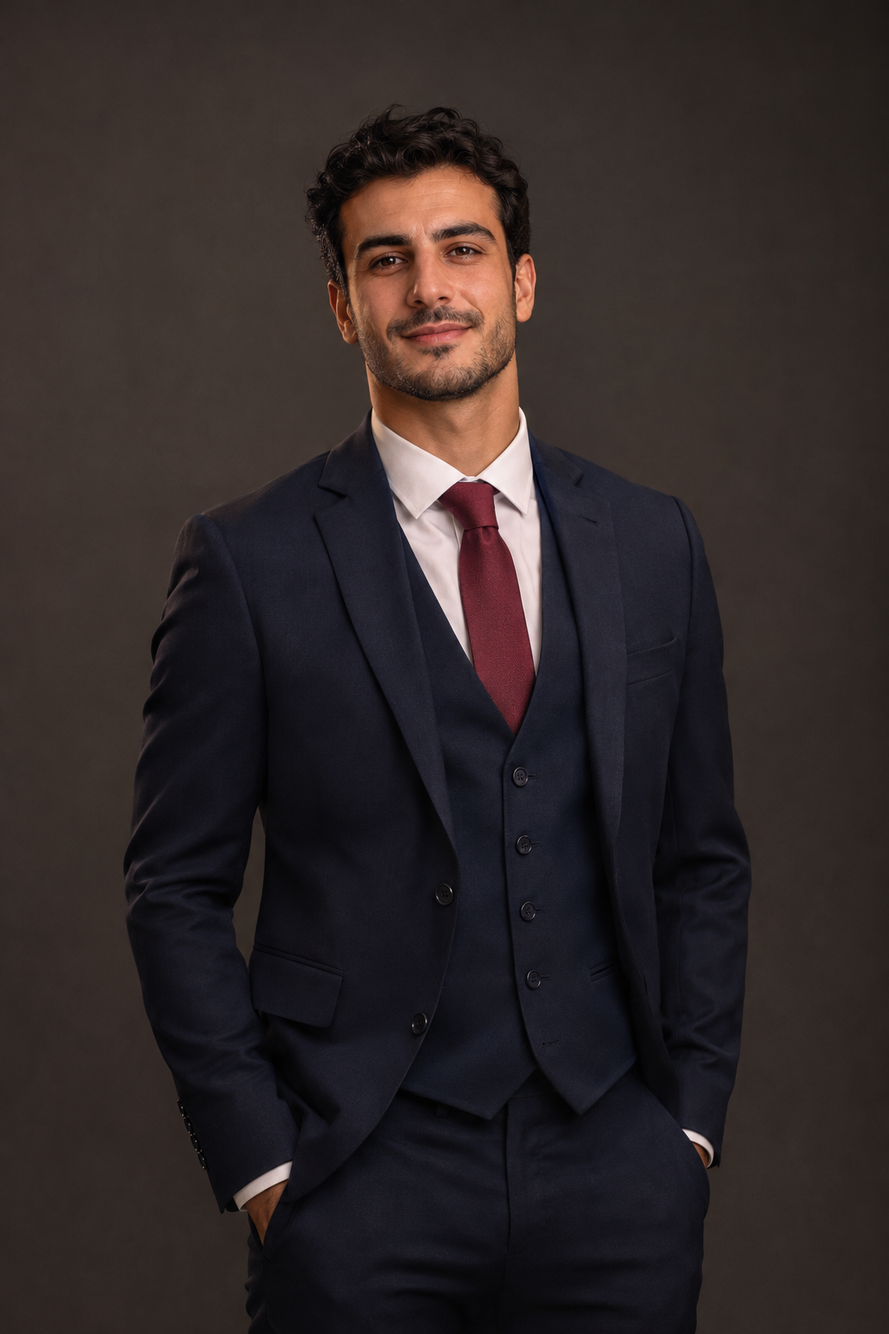
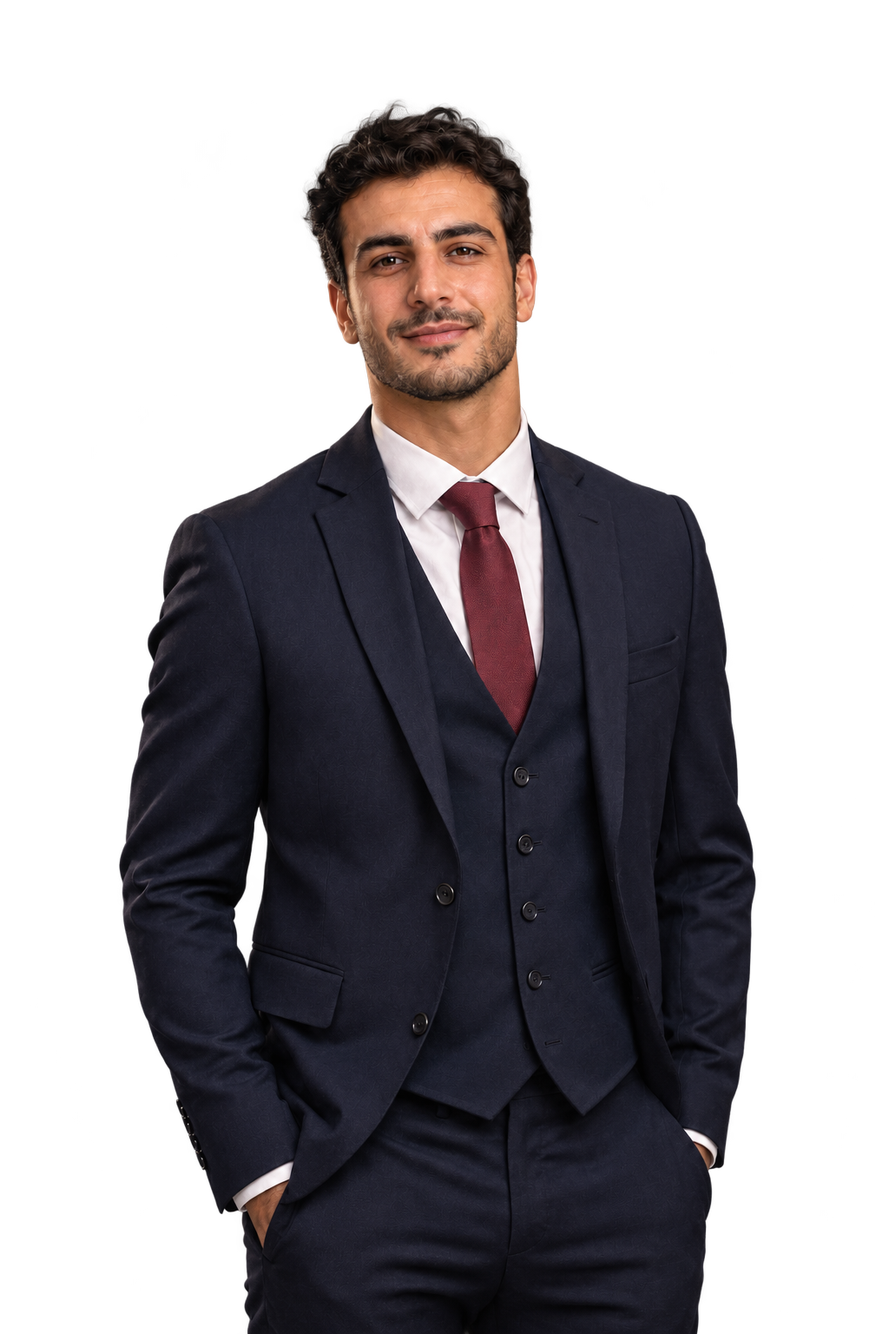
Use transparent persona and suit cutouts and center suit in circle

diff --git a/index.html b/index.html
@@ -1,7 +1,7 @@
 <!DOCTYPE html><html lang="fr"><head><meta charset="utf-8"><meta name="viewport" content="width=device-width, initial-scale=1"><link rel="icon" href="assets/logo-exist-original.png"><meta name="theme-color" content="#0d0d10"><title>EXIST — Plan marketing digital | Soutenance</title><meta name="description" content="Soutenance académique du plan marketing digital EXIST Costume 3 pièces Slim-Fit : Attirer, Convertir, Fidéliser."><style>
 :root{--red:#d61030;--redBright:#f52b46;--black:#0d0d10;--ivory:#f3f0eb;--line:#ffffff26;--white:#fff;--muted:#b9b7bc;font-family:'Avenir Next','Segoe UI',Inter,Arial,sans-serif;color:#f7f6f5;font-synthesis:none}
 *{box-sizing:border-box}html,body{margin:0;height:100%;background:#050508}button,a{font:inherit}button{cursor:pointer}a{color:inherit}button:focus-visible,a:focus-visible{outline:3px solid #ff526a;outline-offset:3px}.screen{position:fixed;inset:0;display:grid;place-items:center;background:radial-gradient(circle at 50% 45%,#222229,#040405 75%);overflow:hidden}.deck{width:min(100vw,177.77778vh);height:min(100vh,56.25vw);aspect-ratio:16/9;position:relative;overflow:hidden;background:#101013;box-shadow:0 18px 90px #0009;container-type:inline-size;isolation:isolate}
-.slide{position:absolute;inset:0;z-index:1;opacity:0;visibility:hidden;pointer-events:none;transform:translate3d(8%,0,-100px) rotateY(4deg) scale(.985);transition:opacity .45s ease, transform .65s cubic-bezier(.16,1,.3,1), visibility 0s linear .65s;will-change:opacity,transform;perspective:1400px}.slide.active{z-index:3;opacity:1;visibility:visible;pointer-events:auto;transform:none;transition:opacity .4s ease,transform .6s cubic-bezier(.16,1,.3,1),visibility 0s}.slide.prev{transform:translate3d(-6%,0,-100px) rotateY(-3deg) scale(.96)}.slide-content{height:100%;padding:8.6% 5.25% 8%;position:relative;overflow:hidden}.slide::before{content:"";position:absolute;right:-15%;top:-55%;width:50%;height:190%;border:1px solid #ffffff0d;transform:rotate(-24deg);pointer-events:none}.slide::after{content:"";position:absolute;inset:0;background:radial-gradient(circle at 80% 24%,#d6103012,transparent 31%);pointer-events:none}.s-light{background:var(--ivory);color:#17171a}.s-dark{background:radial-gradient(ellipse at 80% 25%,#28252b,transparent 49%),linear-gradient(120deg,#09090b,#1c1b20);color:var(--white)}.s-goal{background:radial-gradient(circle at 80% 0%,#5a14222b,transparent 40%),#111114}.s-journey{background:linear-gradient(135deg,#151317,#0b0b0d)}.s-assets{background:#111114}.s-kpi{background:linear-gradient(115deg,#141419,#08080a)}.s-product-demo{background:radial-gradient(ellipse at 80% 50%,#2e1c22,#0c0c0f)}.s-cover,.s-final{background:#0a0a0d}.section-glint{position:absolute;left:5.3%;top:8.3%;width:clamp(4px,.28cqw,6px);height:2.9cqw;background:var(--red);z-index:1;opacity:.9}.s-cover .section-glint{display:none}.eyebrow{display:flex;align-items:center;gap:1.1cqw;font-size:1.05cqw;letter-spacing:.15em;font-weight:700;color:#e8e5e6;text-transform:uppercase;margin-bottom:2.0cqw}.eyebrow>span{height:.15cqw;width:2.8cqw;background:var(--red)}.s-light .eyebrow{color:#3a3739}.big{font-family:'Baskerville','Iowan Old Style','Times New Roman',Georgia,serif;font-weight:500;font-size:6.15cqw;letter-spacing:-.055em;line-height:.98;margin:0 0 1.75cqw;max-width:92%;text-wrap:balance}.big em{font-style:italic;color:#e4ddd4}.s-light .big em{color:#ae1730}.small-big{font-size:5.0cqw;max-width:100%}.lead{font-size:1.61cqw;line-height:1.52;font-weight:400;max-width:39cqw;color:#d7d3d7;margin:0 0 2cqw}.dark-text{color:#151517!important}.lead.dark-text{color:#363138!important}.split{display:grid;grid-template-columns:1fr 1fr;gap:3.9cqw;align-items:center;height:100%}.two-unequal{grid-template-columns:1.15fr .85fr}.source-line{font-size:.85cqw;color:#b7aeb2;margin-top:1.3cqw;line-height:1.45}.s-light .source-line{color:#655a61}.source-line code{font-size:.88cqw}.pill{font-size:.98cqw;border:1px solid #ffffff42;padding:.65cqw 1.15cqw;border-radius:99px;letter-spacing:.1em;font-weight:650;background:#18181c6b}.tags{display:flex;gap:.8cqw;align-items:center;flex-wrap:wrap}.tags .pill:first-child{border-color:#ed2743;color:#f7d8dc}.s-cover .slide-content{padding:0}.cover-photo{position:absolute;inset:0;background-position:center;background-size:cover;transform:scale(1.045);animation:slowZoom 20s ease-in-out infinite alternate}.cover-ribbon{position:absolute;width:44%;right:-12%;top:18%;mix-blend-mode:screen;opacity:.65;filter:drop-shadow(0 30px 50px #000);transform:rotate(-8deg)}.cover-copy{position:absolute;top:20%;left:7%;width:58%}.display-label{font-family:'Baskerville',Georgia,serif;font-size:7.5cqw;line-height:.93;letter-spacing:-.075em;text-shadow:0 9px 40px #0009}.display-label em{font-style:italic;color:#fff5f3}.cover-summary{font-size:1.6cqw;max-width:43cqw;line-height:1.5;color:#eee;margin:2cqw 0 2.4cqw}.cover-foot{position:absolute;bottom:8.5%;left:7%;right:7%;display:flex;justify-content:space-between;font-size:1.1cqw;letter-spacing:.03em;color:#ded2d3}.cover-foot span:last-child{font-size:.93cqw;letter-spacing:.18em}.photo-frame{height:37cqw;border:1px solid #ffffff2a;position:relative;transform:rotateY(-4deg) rotateX(1deg);border-radius:1.2cqw;overflow:hidden;background:#1c1820;box-shadow:16px 25px 50px #0008}.photo-frame img{width:100%;height:100%;object-fit:cover;object-position:60% center}.photo-caption{position:absolute;bottom:0;left:0;right:0;background:linear-gradient(transparent,#060606dd);padding:3.5cqw 2cqw 1.2cqw;font-size:2.2cqw;font-weight:900;letter-spacing:.08em}.photo-caption span{font-size:.75cqw;letter-spacing:.25em}.stat-strip{display:flex;gap:1.7cqw;padding-top:1.4cqw;border-top:1px solid #ffffff38;max-width:42cqw}.stat-strip>div{display:flex;flex-direction:column;gap:.55cqw;min-width:0}.stat-strip b{font-size:2.05cqw;color:#ff4358}.stat-strip span{font-size:1.05cqw;line-height:1.25;color:#dad5d8}.product-stage{height:38cqw;position:relative;display:grid;place-items:center;perspective:1300px}.product-halo{width:32cqw;height:32cqw;border-radius:50%;position:absolute;background:radial-gradient(circle,#c9c2bd,#eae6e2 63%,transparent 68%);box-shadow:0 25px 55px #3e2b2820}.suit-cutout{height:37cqw;width:26cqw;object-fit:cover;object-position:center;background:#eeebea;mix-blend-mode:multiply;filter:drop-shadow(15px 20px 12px #29171933);clip-path:polygon(15% 0,85% 0,85% 100%,12% 100%);transform:rotateY(-5deg)}.float-label{position:absolute;font-size:.84cqw;font-weight:800;letter-spacing:.17em;color:#b3132b;background:#f3f0ebe8;padding:.5cqw .8cqw;border:1px solid #b3132b54}.float-label.top{top:6%;right:13%}.float-label.left{top:52%;left:2%}.float-label.bottom{bottom:9%;right:4%}.feature-rows{margin-top:2.3cqw}.feature-rows>div{display:flex;align-items:center;border-top:1px solid #1c1a1a40;padding:1.1cqw 0;gap:1.5cqw}.feature-rows b{color:#c20b2a;font-size:1.27cqw}.feature-rows span{font-size:1.3cqw}.caution{font-size:.9cqw;line-height:1.5;color:#80757a;margin-top:1.6cqw}.persona-chips{display:flex;flex-wrap:wrap;gap:.7cqw;max-width:42cqw;margin:2cqw 0}.persona-chips span{border:1px solid #ffffff36;padding:.65cqw .9cqw;border-radius:10px;font-size:1.2cqw;background:#26252b}blockquote{font-family:Georgia,serif;font-size:1.75cqw;line-height:1.43;font-style:italic;border-left:.28cqw solid var(--red);padding-left:1.6cqw;margin:2.0cqw 0 0;max-width:40cqw;color:#e8e2e3}.poster-tilt{height:37cqw;position:relative;display:grid;place-items:center;transform:rotateY(-4deg)}.poster-tilt img{height:100%;max-width:100%;object-fit:contain;box-shadow:20px 25px 50px #0008;border:1px solid #ffffff24;border-radius:.4cqw}.poster-stamp{position:absolute;bottom:1%;right:0;font-size:.75cqw;letter-spacing:.18em;background:#c10b2b;padding:.6cqw .9cqw}.empathy-layout{display:grid;grid-template-columns:1.7fr 1fr;gap:2cqw;align-items:center;height:73%}.empathy-image{border:1px solid #d4c9c9;position:relative;padding:.6cqw;background:white;transform:rotateY(2deg);box-shadow:10px 18px 40px #a59c9a66}.empathy-image img{display:block;width:100%;max-height:34cqw;object-fit:contain;cursor:zoom-in}.empathy-image>span{position:absolute;right:1cqw;bottom:.7cqw;background:#222;color:white;padding:.4cqw .7cqw;font-size:.75cqw}.insights{display:grid;grid-template-columns:1fr 1fr;gap:1.2cqw}.insights>div{border-top:.23cqw solid #c81d38;padding-top:1cqw;min-height:9.5cqw}.insights b{font-size:.9cqw;letter-spacing:.15em;color:#aa172c}.insights p{font-size:1.3cqw;line-height:1.38;margin:.7cqw 0}.s-journey .big{font-size:5.7cqw}.s-journey .journey-grid{margin-top:1.1cqw}.journey-grid{display:grid;grid-template-columns:1fr .17fr 1fr .17fr 1fr;gap:.3cqw;align-items:center;margin-top:4cqw;perspective:1200px}.journey-card{min-height:20.5cqw;padding:1.65cqw;background:linear-gradient(130deg,#26252b,#121215);border:1px solid #ffffff28;border-radius:1cqw;box-shadow:0 28px 60px #0007;transform:rotateY(-4deg)}.journey-card:nth-of-type(3){transform:translateY(-.75cqw)}.journey-step{font-size:1.1cqw;color:#f84156;font-weight:700;letter-spacing:.15em}.journey-icon{font-size:5cqw;display:block;color:#f3e3e4;margin:1cqw 0 .7cqw}.journey-card h2{font-size:2cqw;letter-spacing:.02em;margin:0 0 .9cqw}.journey-card p{color:#d2cdd0;font-size:1.35cqw;line-height:1.35;margin:0 0 1.3cqw}.journey-card small{color:#fa7d8f;font-size:1cqw}.journey-arrow{text-align:center;font-size:3.6cqw;color:#e42d44}.s-goal .big{font-size:5.4cqw}.s-goal .goal-layout{margin-top:1.1cqw}.goal-layout{display:grid;grid-template-columns:.78fr 1.22fr;gap:3cqw;margin-top:2.6cqw;align-items:start}.goal-numbers{display:grid;gap:1.25cqw}.metric{border:1px solid #ffffff30;border-left:.38cqw solid #d31a35;padding:1.5cqw 2cqw;background:linear-gradient(100deg,#ffffff0c,transparent);border-radius:.45cqw}.metric-value{font-size:5cqw;line-height:1;font-weight:750;letter-spacing:-.065em;font-variant-numeric:tabular-nums}.metric-label{font-size:1.4cqw;font-weight:800;text-transform:uppercase;margin-top:.55cqw}.metric p{font-size:1cqw;color:#c7bec2;margin:.4cqw 0 0}.goal-summary{padding:0 1cqw}.goal-period{font-size:.98cqw;color:#ff657b;letter-spacing:.18em;font-weight:700;border-bottom:1px solid #ffffff36;padding-bottom:.9cqw}.goal-summary>p{font-size:1.48cqw;line-height:1.43;color:#f7f4f5;margin:1.2cqw 0}.smart-stack{display:grid;grid-template-columns:1fr 1fr;gap:.66cqw}.smart-line{display:flex;gap:.8cqw;align-items:center;background:#ffffff0d;padding:.65cqw .8cqw;border-radius:.3cqw;font-size:1cqw;line-height:1.24;color:#dfd9dc}.smart-line b{display:grid;place-items:center;width:2.1cqw;min-width:2.1cqw;height:2.1cqw;background:#b10a25;color:white;border-radius:.26cqw;font-size:1.1cqw}.goal-layout+.caveat{font-size:.93cqw;color:#e5c6cd;margin-top:1.3cqw}.truth-box{border-left:.3cqw solid #e12442;background:#ffffff13;padding:1.2cqw 1.7cqw;max-width:40cqw;font-size:1.2cqw;line-height:1.4}.empathy-cards{display:grid;grid-template-columns:1fr 1fr;gap:1cqw;transform:rotateY(-2deg)}.empathy-cards>div{background:#ffffff10;border:1px solid #ffffff24;border-radius:.7cqw;min-height:12cqw;padding:1.5cqw}.empathy-cards small{display:block;color:#fb6277;letter-spacing:.13em;font-size:.86cqw;margin-bottom:1.2cqw}.empathy-cards strong{font-size:1.35cqw;font-weight:600;line-height:1.45}.lever-grid{display:grid;grid-template-columns:repeat(4,1fr);gap:1.2cqw;margin-top:3cqw}.lever-card{padding:1.65cqw;border:1px solid #ffffff32;background:linear-gradient(140deg,#ffffff12,#ffffff04);border-radius:.8cqw;min-height:25cqw;transform:rotateY(-3deg);box-shadow:0 16px 32px #0005}.lever-icon{display:grid;place-items:center;width:4cqw;height:4cqw;border:1px solid #f04a62;background:#2b1018;border-radius:1cqw;font-size:2.25cqw;color:#fff;margin-bottom:1.8cqw}.lever-card h3{font-size:1.65cqw;line-height:1.2;margin:0 0 .75cqw}.lever-card p{font-size:1.12cqw;line-height:1.38;color:#f0e9eb;margin:0 0 1.35cqw}.lever-card small{font-size:1.04cqw;line-height:1.4;color:#beb3ba;display:block;border-top:1px solid #ffffff25;padding-top:1.15cqw}.lever-card small b{color:#f2a8b5}.s-assets .big{font-size:4.4cqw;margin-bottom:.7cqw;white-space:nowrap}.s-assets .assets-attract,.s-assets .assets-retain{margin-top:.6cqw}.assets-attract{display:grid;grid-template-columns:1fr 1fr 1.05fr;gap:2cqw;max-height:28cqw;margin-top:.6cqw}.social-phone{height:27cqw;position:relative;display:grid;place-items:center}.social-phone img{height:25cqw;max-width:100%;object-fit:contain;border-radius:.6cqw;box-shadow:0 14px 22px #0009;cursor:zoom-in}.social-phone span{position:absolute;bottom:-1cqw;left:50%;transform:translateX(-50%);white-space:nowrap;font-size:.85cqw;letter-spacing:.15em;color:#ffc3cd}.reel-concept{background:linear-gradient(145deg,#33252b,#0c0d12);padding:2cqw;border:1px solid #ffffff33;border-radius:1cqw;position:relative}.reel-clap{font-size:4cqw;color:#f23a55}.reel-concept small{display:block;color:#f37b8c;font-size:.9cqw;letter-spacing:.13em}.reel-concept h2{font-family:Georgia,serif;font-size:2.8cqw;line-height:1.1}.reel-concept h2 em{color:#f8b2bc}.reel-concept p{font-size:1.2cqw;color:#e2d6db;line-height:1.4}.micro-roadmap{padding-top:1.1cqw;border-top:1px solid #ffffff30;font-size:1.1cqw;line-height:1.8}.reel-concept .caveat{color:#fdbdc7;font-size:.93cqw;line-height:1.4;margin-top:1cqw}.fears{display:grid;gap:1cqw}.fears>div:not(.fears-answer){border-bottom:1px solid #ffffff38;padding:1.3cqw 0;display:flex;gap:1.4cqw;align-items:center;font-size:1.48cqw}.fears b{color:#ed3854;font-size:2cqw}.fears-answer{padding:1.5cqw;background:#cc153020;border:1px solid #dc32504b;border-radius:1cqw;margin-top:1.3cqw}.fears-answer strong{font-size:1.2cqw;color:#f56278}.fears-answer p{font-size:1.4cqw;line-height:1.4}.demo-steps{margin:2cqw 0}.demo-steps>div{display:flex;align-items:center;gap:1.4cqw;border-bottom:1px solid #ffffff35;padding:.95cqw 0;font-size:1.22cqw}.demo-steps b{color:#f04059}.cta{display:inline-flex;align-items:center;justify-content:center;background:#c90b2a;color:#fff;text-decoration:none;font-size:1.04cqw;letter-spacing:.08em;font-weight:800;padding:1.1cqw 1.4cqw;border-radius:.4cqw;transition:background .2s,transform .2s}.cta:hover{background:#ef1236;transform:translateY(-.25cqw)}.landing-preview{height:35cqw;display:grid;place-items:start center;position:relative;overflow:hidden;border-radius:1cqw;border:1px solid #ffffff45;box-shadow:0 22px 40px #000b;transform:rotateY(-4deg)}.landing-preview img{width:100%;height:100%;object-fit:cover;object-position:center top;cursor:zoom-in}.preview-tag{position:absolute;bottom:0;left:0;right:0;background:linear-gradient(transparent,#000f);padding:3cqw 1.4cqw 1cqw;font-size:.85cqw;letter-spacing:.12em}.care-preview{height:36cqw;display:grid;place-items:center}.care-preview img{height:100%;object-fit:contain;border-radius:.8cqw;box-shadow:12px 20px 40px #0007}.assets-retain{display:grid;grid-template-columns:1.12fr 1fr 1fr 1fr;gap:1.4cqw;margin-top:1.2cqw;max-height:27cqw}.email-visual,.retain-visual{height:27cqw;border:1px solid #ffffff27;border-radius:.6cqw;overflow:hidden;position:relative;background:#18181c}.email-visual img,.retain-visual img{width:100%;height:100%;object-fit:cover;object-position:top;cursor:zoom-in}.email-visual img{object-position:top}.assets-retain span{position:absolute;bottom:0;left:0;right:0;padding:2.4cqw 1cqw .75cqw;background:linear-gradient(transparent,#000);font-size:.85cqw;font-weight:800;letter-spacing:.12em}.kpi-layout{display:grid;grid-template-columns:1.1fr .9fr;gap:2.6cqw;margin-top:3cqw}.kpi-table{border:1px solid #ffffff30;border-radius:.7cqw;overflow:hidden}.kpi-row{display:grid;grid-template-columns:1fr 1.65fr 1.15fr;gap:1cqw;padding:1.45cqw 1.2cqw;border-bottom:1px solid #ffffff20;align-items:center;font-size:1.1cqw}.kpi-row.title{font-size:.9cqw;color:#f7657a;letter-spacing:.15em;background:#ffffff0a}.kpi-row b{color:#f6b3bd}.kpi-row strong{font-size:1.55cqw;letter-spacing:-.02em}.measurement{padding:1.6cqw;font-size:1cqw;color:#b8afb3}.timeline{background:#ffffff08;padding:2cqw;border:1px solid #ffffff22;border-radius:.7cqw}.time-head{display:flex;justify-content:space-between;font-size:.86cqw;letter-spacing:.12em;color:#d6babe;margin-left:7cqw}.time-row{display:grid;grid-template-columns:7cqw 1fr;align-items:center;font-size:1.1cqw;margin-top:2cqw}.time-row b{font-weight:700}.time-row div{height:1.2cqw;background:#ffffff18;position:relative;border-radius:2cqw;overflow:hidden}.time-row i{position:absolute;left:0;top:0;height:100%;background:linear-gradient(90deg,#a80e28,#f73957);border-radius:2cqw}.timeline p{font-size:1.05cqw;color:#c5bdc1;line-height:1.5;margin-top:2.7cqw}.closing-bg{position:absolute;inset:0;background-size:cover;background-position:center;opacity:.85}.s-final .slide-content{padding:0}.final-center{position:absolute;top:17%;left:9%;width:84%}.final-big{font-size:8.8cqw;line-height:.91;letter-spacing:-.08em;font-weight:500;font-family:Georgia,serif;margin:2cqw 0}.final-big em{font-style:italic;color:#f9dfdf}.ending{margin:1cqw 0 2cqw}.final-center>p{font-size:1.5cqw}.final-footer{border-top:1px solid #ffffff5a;display:flex;justify-content:space-between;margin-top:3cqw;padding-top:1.2cqw;font-size:1.2cqw}.final-footer span{color:#ff4862}
+.slide{position:absolute;inset:0;z-index:1;opacity:0;visibility:hidden;pointer-events:none;transform:translate3d(8%,0,-100px) rotateY(4deg) scale(.985);transition:opacity .45s ease, transform .65s cubic-bezier(.16,1,.3,1), visibility 0s linear .65s;will-change:opacity,transform;perspective:1400px}.slide.active{z-index:3;opacity:1;visibility:visible;pointer-events:auto;transform:none;transition:opacity .4s ease,transform .6s cubic-bezier(.16,1,.3,1),visibility 0s}.slide.prev{transform:translate3d(-6%,0,-100px) rotateY(-3deg) scale(.96)}.slide-content{height:100%;padding:8.6% 5.25% 8%;position:relative;overflow:hidden}.slide::before{content:"";position:absolute;right:-15%;top:-55%;width:50%;height:190%;border:1px solid #ffffff0d;transform:rotate(-24deg);pointer-events:none}.slide::after{content:"";position:absolute;inset:0;background:radial-gradient(circle at 80% 24%,#d6103012,transparent 31%);pointer-events:none}.s-light{background:var(--ivory);color:#17171a}.s-dark{background:radial-gradient(ellipse at 80% 25%,#28252b,transparent 49%),linear-gradient(120deg,#09090b,#1c1b20);color:var(--white)}.s-goal{background:radial-gradient(circle at 80% 0%,#5a14222b,transparent 40%),#111114}.s-journey{background:linear-gradient(135deg,#151317,#0b0b0d)}.s-assets{background:#111114}.s-kpi{background:linear-gradient(115deg,#141419,#08080a)}.s-product-demo{background:radial-gradient(ellipse at 80% 50%,#2e1c22,#0c0c0f)}.s-cover,.s-final{background:#0a0a0d}.section-glint{position:absolute;left:5.3%;top:8.3%;width:clamp(4px,.28cqw,6px);height:2.9cqw;background:var(--red);z-index:1;opacity:.9}.s-cover .section-glint{display:none}.eyebrow{display:flex;align-items:center;gap:1.1cqw;font-size:1.05cqw;letter-spacing:.15em;font-weight:700;color:#e8e5e6;text-transform:uppercase;margin-bottom:2.0cqw}.eyebrow>span{height:.15cqw;width:2.8cqw;background:var(--red)}.s-light .eyebrow{color:#3a3739}.big{font-family:'Baskerville','Iowan Old Style','Times New Roman',Georgia,serif;font-weight:500;font-size:6.15cqw;letter-spacing:-.055em;line-height:.98;margin:0 0 1.75cqw;max-width:92%;text-wrap:balance}.big em{font-style:italic;color:#e4ddd4}.s-light .big em{color:#ae1730}.small-big{font-size:5.0cqw;max-width:100%}.lead{font-size:1.61cqw;line-height:1.52;font-weight:400;max-width:39cqw;color:#d7d3d7;margin:0 0 2cqw}.dark-text{color:#151517!important}.lead.dark-text{color:#363138!important}.split{display:grid;grid-template-columns:1fr 1fr;gap:3.9cqw;align-items:center;height:100%}.two-unequal{grid-template-columns:1.15fr .85fr}.source-line{font-size:.85cqw;color:#b7aeb2;margin-top:1.3cqw;line-height:1.45}.s-light .source-line{color:#655a61}.source-line code{font-size:.88cqw}.pill{font-size:.98cqw;border:1px solid #ffffff42;padding:.65cqw 1.15cqw;border-radius:99px;letter-spacing:.1em;font-weight:650;background:#18181c6b}.tags{display:flex;gap:.8cqw;align-items:center;flex-wrap:wrap}.tags .pill:first-child{border-color:#ed2743;color:#f7d8dc}.s-cover .slide-content{padding:0}.cover-photo{position:absolute;inset:0;background-position:center;background-size:cover;transform:scale(1.045);animation:slowZoom 20s ease-in-out infinite alternate}.cover-ribbon{position:absolute;width:44%;right:-12%;top:18%;mix-blend-mode:screen;opacity:.65;filter:drop-shadow(0 30px 50px #000);transform:rotate(-8deg)}.cover-copy{position:absolute;top:20%;left:7%;width:58%}.display-label{font-family:'Baskerville',Georgia,serif;font-size:7.5cqw;line-height:.93;letter-spacing:-.075em;text-shadow:0 9px 40px #0009}.display-label em{font-style:italic;color:#fff5f3}.cover-summary{font-size:1.6cqw;max-width:43cqw;line-height:1.5;color:#eee;margin:2cqw 0 2.4cqw}.cover-foot{position:absolute;bottom:8.5%;left:7%;right:7%;display:flex;justify-content:space-between;font-size:1.1cqw;letter-spacing:.03em;color:#ded2d3}.cover-foot span:last-child{font-size:.93cqw;letter-spacing:.18em}.photo-frame{height:37cqw;border:1px solid #ffffff2a;position:relative;transform:rotateY(-4deg) rotateX(1deg);border-radius:1.2cqw;overflow:hidden;background:#1c1820;box-shadow:16px 25px 50px #0008}.photo-frame img{width:100%;height:100%;object-fit:cover;object-position:60% center}.photo-caption{position:absolute;bottom:0;left:0;right:0;background:linear-gradient(transparent,#060606dd);padding:3.5cqw 2cqw 1.2cqw;font-size:2.2cqw;font-weight:900;letter-spacing:.08em}.photo-caption span{font-size:.75cqw;letter-spacing:.25em}.stat-strip{display:flex;gap:1.7cqw;padding-top:1.4cqw;border-top:1px solid #ffffff38;max-width:42cqw}.stat-strip>div{display:flex;flex-direction:column;gap:.55cqw;min-width:0}.stat-strip b{font-size:2.05cqw;color:#ff4358}.stat-strip span{font-size:1.05cqw;line-height:1.25;color:#dad5d8}.product-stage{height:38cqw;position:relative;display:grid;place-items:center;perspective:1300px}.product-halo{width:34cqw;height:34cqw;border-radius:50%;position:absolute;background:radial-gradient(circle,#c9c2bd,#eae6e2 63%,transparent 68%);box-shadow:0 25px 55px #3e2b2820}.suit-cutout{height:37cqw;width:26cqw;object-fit:cover;object-position:center;background:#eeebea;mix-blend-mode:multiply;filter:drop-shadow(15px 20px 12px #29171933);clip-path:polygon(15% 0,85% 0,85% 100%,12% 100%);transform:rotateY(-5deg)}.float-label{position:absolute;font-size:.84cqw;font-weight:800;letter-spacing:.17em;color:#b3132b;background:#f3f0ebe8;padding:.5cqw .8cqw;border:1px solid #b3132b54}.float-label.top{top:6%;right:13%}.float-label.left{top:52%;left:2%}.float-label.bottom{bottom:9%;right:4%}.feature-rows{margin-top:2.3cqw}.feature-rows>div{display:flex;align-items:center;border-top:1px solid #1c1a1a40;padding:1.1cqw 0;gap:1.5cqw}.feature-rows b{color:#c20b2a;font-size:1.27cqw}.feature-rows span{font-size:1.3cqw}.caution{font-size:.9cqw;line-height:1.5;color:#80757a;margin-top:1.6cqw}.persona-chips{display:flex;flex-wrap:wrap;gap:.7cqw;max-width:42cqw;margin:2cqw 0}.persona-chips span{border:1px solid #ffffff36;padding:.65cqw .9cqw;border-radius:10px;font-size:1.2cqw;background:#26252b}blockquote{font-family:Georgia,serif;font-size:1.75cqw;line-height:1.43;font-style:italic;border-left:.28cqw solid var(--red);padding-left:1.6cqw;margin:2.0cqw 0 0;max-width:40cqw;color:#e8e2e3}.poster-tilt{height:37cqw;position:relative;display:grid;place-items:center;transform:rotateY(-4deg)}.poster-tilt img{height:100%;max-width:100%;object-fit:contain;box-shadow:20px 25px 50px #0008;border:1px solid #ffffff24;border-radius:.4cqw}.poster-stamp{position:absolute;bottom:1%;right:0;font-size:.75cqw;letter-spacing:.18em;background:#c10b2b;padding:.6cqw .9cqw}.empathy-layout{display:grid;grid-template-columns:1.7fr 1fr;gap:2cqw;align-items:center;height:73%}.empathy-image{border:1px solid #d4c9c9;position:relative;padding:.6cqw;background:white;transform:rotateY(2deg);box-shadow:10px 18px 40px #a59c9a66}.empathy-image img{display:block;width:100%;max-height:34cqw;object-fit:contain;cursor:zoom-in}.empathy-image>span{position:absolute;right:1cqw;bottom:.7cqw;background:#222;color:white;padding:.4cqw .7cqw;font-size:.75cqw}.insights{display:grid;grid-template-columns:1fr 1fr;gap:1.2cqw}.insights>div{border-top:.23cqw solid #c81d38;padding-top:1cqw;min-height:9.5cqw}.insights b{font-size:.9cqw;letter-spacing:.15em;color:#aa172c}.insights p{font-size:1.3cqw;line-height:1.38;margin:.7cqw 0}.s-journey .big{font-size:5.7cqw}.s-journey .journey-grid{margin-top:1.1cqw}.journey-grid{display:grid;grid-template-columns:1fr .17fr 1fr .17fr 1fr;gap:.3cqw;align-items:center;margin-top:4cqw;perspective:1200px}.journey-card{min-height:20.5cqw;padding:1.65cqw;background:linear-gradient(130deg,#26252b,#121215);border:1px solid #ffffff28;border-radius:1cqw;box-shadow:0 28px 60px #0007;transform:rotateY(-4deg)}.journey-card:nth-of-type(3){transform:translateY(-.75cqw)}.journey-step{font-size:1.1cqw;color:#f84156;font-weight:700;letter-spacing:.15em}.journey-icon{font-size:5cqw;display:block;color:#f3e3e4;margin:1cqw 0 .7cqw}.journey-card h2{font-size:2cqw;letter-spacing:.02em;margin:0 0 .9cqw}.journey-card p{color:#d2cdd0;font-size:1.35cqw;line-height:1.35;margin:0 0 1.3cqw}.journey-card small{color:#fa7d8f;font-size:1cqw}.journey-arrow{text-align:center;font-size:3.6cqw;color:#e42d44}.s-goal .big{font-size:5.4cqw}.s-goal .goal-layout{margin-top:1.1cqw}.goal-layout{display:grid;grid-template-columns:.78fr 1.22fr;gap:3cqw;margin-top:2.6cqw;align-items:start}.goal-numbers{display:grid;gap:1.25cqw}.metric{border:1px solid #ffffff30;border-left:.38cqw solid #d31a35;padding:1.5cqw 2cqw;background:linear-gradient(100deg,#ffffff0c,transparent);border-radius:.45cqw}.metric-value{font-size:5cqw;line-height:1;font-weight:750;letter-spacing:-.065em;font-variant-numeric:tabular-nums}.metric-label{font-size:1.4cqw;font-weight:800;text-transform:uppercase;margin-top:.55cqw}.metric p{font-size:1cqw;color:#c7bec2;margin:.4cqw 0 0}.goal-summary{padding:0 1cqw}.goal-period{font-size:.98cqw;color:#ff657b;letter-spacing:.18em;font-weight:700;border-bottom:1px solid #ffffff36;padding-bottom:.9cqw}.goal-summary>p{font-size:1.48cqw;line-height:1.43;color:#f7f4f5;margin:1.2cqw 0}.smart-stack{display:grid;grid-template-columns:1fr 1fr;gap:.66cqw}.smart-line{display:flex;gap:.8cqw;align-items:center;background:#ffffff0d;padding:.65cqw .8cqw;border-radius:.3cqw;font-size:1cqw;line-height:1.24;color:#dfd9dc}.smart-line b{display:grid;place-items:center;width:2.1cqw;min-width:2.1cqw;height:2.1cqw;background:#b10a25;color:white;border-radius:.26cqw;font-size:1.1cqw}.goal-layout+.caveat{font-size:.93cqw;color:#e5c6cd;margin-top:1.3cqw}.truth-box{border-left:.3cqw solid #e12442;background:#ffffff13;padding:1.2cqw 1.7cqw;max-width:40cqw;font-size:1.2cqw;line-height:1.4}.empathy-cards{display:grid;grid-template-columns:1fr 1fr;gap:1cqw;transform:rotateY(-2deg)}.empathy-cards>div{background:#ffffff10;border:1px solid #ffffff24;border-radius:.7cqw;min-height:12cqw;padding:1.5cqw}.empathy-cards small{display:block;color:#fb6277;letter-spacing:.13em;font-size:.86cqw;margin-bottom:1.2cqw}.empathy-cards strong{font-size:1.35cqw;font-weight:600;line-height:1.45}.lever-grid{display:grid;grid-template-columns:repeat(4,1fr);gap:1.2cqw;margin-top:3cqw}.lever-card{padding:1.65cqw;border:1px solid #ffffff32;background:linear-gradient(140deg,#ffffff12,#ffffff04);border-radius:.8cqw;min-height:25cqw;transform:rotateY(-3deg);box-shadow:0 16px 32px #0005}.lever-icon{display:grid;place-items:center;width:4cqw;height:4cqw;border:1px solid #f04a62;background:#2b1018;border-radius:1cqw;font-size:2.25cqw;color:#fff;margin-bottom:1.8cqw}.lever-card h3{font-size:1.65cqw;line-height:1.2;margin:0 0 .75cqw}.lever-card p{font-size:1.12cqw;line-height:1.38;color:#f0e9eb;margin:0 0 1.35cqw}.lever-card small{font-size:1.04cqw;line-height:1.4;color:#beb3ba;display:block;border-top:1px solid #ffffff25;padding-top:1.15cqw}.lever-card small b{color:#f2a8b5}.s-assets .big{font-size:4.4cqw;margin-bottom:.7cqw;white-space:nowrap}.s-assets .assets-attract,.s-assets .assets-retain{margin-top:.6cqw}.assets-attract{display:grid;grid-template-columns:1fr 1fr 1.05fr;gap:2cqw;max-height:28cqw;margin-top:.6cqw}.social-phone{height:27cqw;position:relative;display:grid;place-items:center}.social-phone img{height:25cqw;max-width:100%;object-fit:contain;border-radius:.6cqw;box-shadow:0 14px 22px #0009;cursor:zoom-in}.social-phone span{position:absolute;bottom:-1cqw;left:50%;transform:translateX(-50%);white-space:nowrap;font-size:.85cqw;letter-spacing:.15em;color:#ffc3cd}.reel-concept{background:linear-gradient(145deg,#33252b,#0c0d12);padding:2cqw;border:1px solid #ffffff33;border-radius:1cqw;position:relative}.reel-clap{font-size:4cqw;color:#f23a55}.reel-concept small{display:block;color:#f37b8c;font-size:.9cqw;letter-spacing:.13em}.reel-concept h2{font-family:Georgia,serif;font-size:2.8cqw;line-height:1.1}.reel-concept h2 em{color:#f8b2bc}.reel-concept p{font-size:1.2cqw;color:#e2d6db;line-height:1.4}.micro-roadmap{padding-top:1.1cqw;border-top:1px solid #ffffff30;font-size:1.1cqw;line-height:1.8}.reel-concept .caveat{color:#fdbdc7;font-size:.93cqw;line-height:1.4;margin-top:1cqw}.fears{display:grid;gap:1cqw}.fears>div:not(.fears-answer){border-bottom:1px solid #ffffff38;padding:1.3cqw 0;display:flex;gap:1.4cqw;align-items:center;font-size:1.48cqw}.fears b{color:#ed3854;font-size:2cqw}.fears-answer{padding:1.5cqw;background:#cc153020;border:1px solid #dc32504b;border-radius:1cqw;margin-top:1.3cqw}.fears-answer strong{font-size:1.2cqw;color:#f56278}.fears-answer p{font-size:1.4cqw;line-height:1.4}.demo-steps{margin:2cqw 0}.demo-steps>div{display:flex;align-items:center;gap:1.4cqw;border-bottom:1px solid #ffffff35;padding:.95cqw 0;font-size:1.22cqw}.demo-steps b{color:#f04059}.cta{display:inline-flex;align-items:center;justify-content:center;background:#c90b2a;color:#fff;text-decoration:none;font-size:1.04cqw;letter-spacing:.08em;font-weight:800;padding:1.1cqw 1.4cqw;border-radius:.4cqw;transition:background .2s,transform .2s}.cta:hover{background:#ef1236;transform:translateY(-.25cqw)}.landing-preview{height:35cqw;display:grid;place-items:start center;position:relative;overflow:hidden;border-radius:1cqw;border:1px solid #ffffff45;box-shadow:0 22px 40px #000b;transform:rotateY(-4deg)}.landing-preview img{width:100%;height:100%;object-fit:cover;object-position:center top;cursor:zoom-in}.preview-tag{position:absolute;bottom:0;left:0;right:0;background:linear-gradient(transparent,#000f);padding:3cqw 1.4cqw 1cqw;font-size:.85cqw;letter-spacing:.12em}.care-preview{height:36cqw;display:grid;place-items:center}.care-preview img{height:100%;object-fit:contain;border-radius:.8cqw;box-shadow:12px 20px 40px #0007}.assets-retain{display:grid;grid-template-columns:1.12fr 1fr 1fr 1fr;gap:1.4cqw;margin-top:1.2cqw;max-height:27cqw}.email-visual,.retain-visual{height:27cqw;border:1px solid #ffffff27;border-radius:.6cqw;overflow:hidden;position:relative;background:#18181c}.email-visual img,.retain-visual img{width:100%;height:100%;object-fit:cover;object-position:top;cursor:zoom-in}.email-visual img{object-position:top}.assets-retain span{position:absolute;bottom:0;left:0;right:0;padding:2.4cqw 1cqw .75cqw;background:linear-gradient(transparent,#000);font-size:.85cqw;font-weight:800;letter-spacing:.12em}.kpi-layout{display:grid;grid-template-columns:1.1fr .9fr;gap:2.6cqw;margin-top:3cqw}.kpi-table{border:1px solid #ffffff30;border-radius:.7cqw;overflow:hidden}.kpi-row{display:grid;grid-template-columns:1fr 1.65fr 1.15fr;gap:1cqw;padding:1.45cqw 1.2cqw;border-bottom:1px solid #ffffff20;align-items:center;font-size:1.1cqw}.kpi-row.title{font-size:.9cqw;color:#f7657a;letter-spacing:.15em;background:#ffffff0a}.kpi-row b{color:#f6b3bd}.kpi-row strong{font-size:1.55cqw;letter-spacing:-.02em}.measurement{padding:1.6cqw;font-size:1cqw;color:#b8afb3}.timeline{background:#ffffff08;padding:2cqw;border:1px solid #ffffff22;border-radius:.7cqw}.time-head{display:flex;justify-content:space-between;font-size:.86cqw;letter-spacing:.12em;color:#d6babe;margin-left:7cqw}.time-row{display:grid;grid-template-columns:7cqw 1fr;align-items:center;font-size:1.1cqw;margin-top:2cqw}.time-row b{font-weight:700}.time-row div{height:1.2cqw;background:#ffffff18;position:relative;border-radius:2cqw;overflow:hidden}.time-row i{position:absolute;left:0;top:0;height:100%;background:linear-gradient(90deg,#a80e28,#f73957);border-radius:2cqw}.timeline p{font-size:1.05cqw;color:#c5bdc1;line-height:1.5;margin-top:2.7cqw}.closing-bg{position:absolute;inset:0;background-size:cover;background-position:center;opacity:.85}.s-final .slide-content{padding:0}.final-center{position:absolute;top:17%;left:9%;width:84%}.final-big{font-size:8.8cqw;line-height:.91;letter-spacing:-.08em;font-weight:500;font-family:Georgia,serif;margin:2cqw 0}.final-big em{font-style:italic;color:#f9dfdf}.ending{margin:1cqw 0 2cqw}.final-center>p{font-size:1.5cqw}.final-footer{border-top:1px solid #ffffff5a;display:flex;justify-content:space-between;margin-top:3cqw;padding-top:1.2cqw;font-size:1.2cqw}.final-footer span{color:#ff4862}
 /* Persistent controls */
 .brand-head{position:absolute;z-index:15;left:5.2%;right:5.2%;top:2.3%;height:4%;display:flex;align-items:center;justify-content:space-between;pointer-events:none}.brand-head img{width:11.2cqw;height:auto;max-height:3.5cqw;object-fit:contain}.brand-head .brand-logo{filter:drop-shadow(0 1px 2px #0005)}.brand-head .brand-right{font-size:.9cqw;letter-spacing:.17em;color:#cfc9cd}.brand-head .brand-right b{color:#f34861}.s-light.active~.brand-head{color:#222}.screen.light .brand-head .brand-right{color:#292327}.screen.light .brand-head .brand-logo{filter:none}.deck-footer{position:absolute;z-index:15;bottom:2.1%;left:5.25%;right:5.25%;display:flex;justify-content:space-between;align-items:center;gap:2cqw;font-size:.9cqw;color:#c4b8bf}.screen.light .deck-footer{color:#2d2326}.footer-line{flex:1;height:2px;background:#ffffff35;position:relative;border-radius:2px}.screen.light .footer-line{background:#2211162b}.footer-fill{position:absolute;left:0;top:0;bottom:0;background:#e81739;width:0;transition:width .5s}.counter{font-variant-numeric:tabular-nums;font-weight:700;letter-spacing:.14em}.control-area{position:absolute;bottom:2.4%;right:1.15%;z-index:18;display:flex;flex-direction:column;gap:.3cqw}.control-area button{width:2.35cqw;height:2.35cqw;border:1px solid #ffffff42;background:#1d1b21b2;color:white;border-radius:50%;font-size:1.25cqw;display:grid;place-items:center}.control-area button:hover{background:#cc1938}.control-area button:disabled{opacity:.3;cursor:default}.overlay{position:absolute;inset:0;z-index:50;background:#050507f2;display:none;align-items:center;justify-content:center;padding:4cqw}.overlay.open{display:flex}.menu-inner{height:100%;width:100%;max-width:95%;display:flex;flex-direction:column;gap:1cqw}.overlay h2{font-family:Georgia,serif;font-size:4cqw;margin:.3cqw 0 1cqw}.menu-grid{display:grid;grid-template-columns:repeat(4,1fr);gap:.7cqw;overflow:auto}.menu-slide{display:flex;flex-direction:column;align-items:start;gap:.45cqw;border:1px solid #ffffff33;background:#ffffff0b;padding:1cqw;color:white;text-align:left;min-height:6.2cqw}.menu-slide:hover{border-color:#f33956;background:#431a28}.menu-slide span:first-child{color:#f14b64;font-size:.95cqw}.menu-slide span:nth-child(2){font-size:1.1cqw;font-weight:700}.menu-slide small{font-size:.75cqw;color:#d3b5bc;letter-spacing:.1em}.overlay-close{position:absolute;right:3%;top:4%;background:none;color:white;border:1px solid #ffffff5a;padding:.5cqw 1cqw}.notes-panel{position:absolute;z-index:42;right:0;top:0;bottom:0;width:35%;background:#121214f4;color:white;box-shadow:-15px 0 30px #0007;transform:translateX(105%);transition:transform .35s;padding:7cqw 2cqw 3cqw;pointer-events:none}.notes-panel.open{transform:none;pointer-events:auto}.notes-panel h3{color:#ff526a;text-transform:uppercase;letter-spacing:.12em;font-size:1.2cqw}.notes-panel p{font-size:1.3cqw;line-height:1.55}.notes-panel .notes-close{position:absolute;top:2cqw;right:2cqw;border:1px solid #ffffff55;background:#2b2b30;color:white;padding:.5cqw 1cqw}.zoom-overlay{position:fixed;z-index:100;inset:0;background:#070609ef;display:none;flex-direction:column;align-items:center;justify-content:center;gap:1cqw;padding:4vh 5vw}.zoom-overlay.open{display:flex}.zoom-overlay img{max-height:83vh;max-width:90vw;object-fit:contain;box-shadow:0 20px 70px #000}.zoom-overlay span{color:#fff;font-size:1rem}.zoom-overlay button{position:absolute;right:2rem;top:2rem;background:#ed1738;border:none;color:#fff;border-radius:5px;padding:.6rem 1rem}.zoomable{cursor:zoom-in}
 @keyframes slowZoom{from{transform:scale(1)}to{transform:scale(1.11)}}@media(prefers-reduced-motion:reduce){*,*::before,*::after{animation-duration:.001ms!important;transition-duration:.001ms!important;scroll-behavior:auto!important}.slide{transform:none!important}}
@@ -10,9 +10,9 @@
 /* Keep media within the slide and preserve complete deliverables. */
 .slide-content>.eyebrow+.split{height:calc(100% - 3.5cqw)}
 .split>*{min-width:0;min-height:0}
-.poster-tilt img{width:100%;height:37cqw;max-height:100%;min-height:0;object-fit:contain}
+.poster-tilt img{width:100%;height:37cqw;max-height:100%;min-height:0;object-fit:contain;border:0;border-radius:0;box-shadow:none;background:transparent}
 .photo-frame img{object-position:center}
-.suit-cutout{object-fit:contain;clip-path:none;width:26cqw;mix-blend-mode:multiply}
+.suit-cutout{object-fit:contain;clip-path:none;width:20cqw;height:31cqw;background:transparent;mix-blend-mode:normal;transform:none;filter:drop-shadow(.6cqw .8cqw .7cqw #29171926)}
 .care-preview img{height:36cqw;max-height:100%;width:100%;min-height:0;object-fit:contain}
 .landing-preview img{height:35cqw;max-height:100%;min-height:0;object-fit:contain;background:#121216}
 .s-product-demo .big{font-size:4.65cqw}
@@ -49,7 +49,7 @@
 <section class="slide s-light" data-title="Le produit" data-section="CONTEXTE" data-duration="50" data-index="2" aria-hidden="true">
 <div class="section-glint"></div><div class="slide-content">
 <div class="eyebrow"><span></span>02 / LE PRODUIT</div>
-<div class="split two-unequal"><div class="product-stage"><div class="product-halo"></div><img class="suit-cutout depth" data-depth="0.035" src="assets/suit-concept.png" alt="Costume 3 pièces conceptuel"/><span class="float-label top">VESTE</span><span class="float-label left">GILET</span><span class="float-label bottom">PANTALON</span></div>
+<div class="split two-unequal"><div class="product-stage"><div class="product-halo"></div><img class="suit-cutout" src="assets/suit-concept.png" alt="Costume 3 pièces conceptuel"/><span class="float-label top">VESTE</span><span class="float-label left">GILET</span><span class="float-label bottom">PANTALON</span></div>
 <div class="copy-section"><h1 class="big dark-text">Costume <em>3 pièces</em><br>Slim-Fit.</h1><p class="lead dark-text">Une tenue complète destinée aux moments marquants : mariages, fiançailles et cérémonies.</p>
 <div class="feature-rows"><div><b>01</b><span>Silhouette moderne et structurée</span></div><div><b>02</b><span>Trois pièces à associer</span></div><div><b>03</b><span>Recherche d’élégance et de confiance</span></div></div><div class="caution">Visuels de concept · référence, prix et disponibilité à confirmer auprès d’EXIST.</div>
 </div></div>

diff --git a/docs/image-generation-prompts.md b/docs/image-generation-prompts.md
@@ -9,3 +9,15 @@ Use case: photorealistic-natural. Asset type: portrait for a fictional marketing
 ## assets/suit-concept.png
 
 Use case: product-mockup. Asset type: conceptual menswear product image for academic presentation, portrait 2:3. A complete dark navy slim-fit three-piece men's ceremony suit displayed on an invisible mannequin: tailored jacket open enough to clearly show matching waistcoat, crisp white shirt and burgundy tie, matching full-length trousers visible all the way to hems. Straight-on full-length studio catalog photography, centered, entire garment visible with generous empty margin on all four sides. Warm light ivory seamless background, soft diffuse studio lighting with restrained contact shadow. Fine wool weave and clear lapel edges, realistic proportions and elegant tailoring, clean high detail, no artificial grain or noise, no harsh oversharpening, no words, logos, labels, props, UI arrows, or watermark. Do not crop trousers or shoulders. This is a fictional product concept, not a specific branded SKU.
+
+## Transparent cutout edits
+
+Tool: built-in Imagegen with `transparent_background: true`. Each existing project PNG was supplied as its own edit reference. The resulting RGBA cutouts replace the same project asset paths.
+
+### Portrait edit prompt
+
+Remove only the studio background from this Yassine portrait. Output a genuine transparent RGBA PNG cutout. Preserve exactly the man's identity, face, hair, expression, pose, anatomy, suit, shirt, burgundy tie, skin tone, lighting, details and original portrait framing. Preserve fine hair and fabric edges with clean alpha, no dark halo, no white fringe. All background pixels must be transparent, including gaps outside his silhouette. No added shadow, no background color, no checkerboard pattern baked into the image, no text or border. Do not redesign or regenerate the character.
+
+### Suit edit prompt
+
+Background extraction only. Remove the ivory studio background and floor shadow from the supplied three-piece suit product image. Return a genuine transparent RGBA PNG cutout of exactly the existing entire suit: navy jacket, waistcoat, white shirt, burgundy tie, pocket square and full length trousers. Keep the same arrangement, proportions, color, fabric detail, buttons and complete trouser hems. Preserve the original 2:3 framing and margins. Also make the empty gap between trouser legs transparent. Clean precise alpha edge, no ivory fringe or halo, no background color, no baked checkerboard, no shadow or added elements. Do not change the product or crop it.

diff --git a/docs/media-and-layout-qa.md b/docs/media-and-layout-qa.md
@@ -41,3 +41,10 @@ Visual inspection distinguishes softness, compression artifacts, genuine surface
 ## Generation
 
 Both new images were produced with the built-in Imagegen tool. The prompts are preserved in `image-generation-prompts.md`. The original persona sheet is retained as a source asset; it is no longer the portrait shown on slide 4.
+
+## Transparent cutout follow-up
+
+- Removed both generated images' studio backgrounds using built-in Imagegen. Verified both PNGs contain alpha transparency.
+- Removed the persona image's frame and the suit image's CSS background and multiply blending so the slide backgrounds show through.
+- Centered the suit within a 34cqw circular backdrop, sizing its image box to 20cqw × 31cqw. Removed pointer parallax from this image so it stays centered.
+- Reviewed product and persona screenshots in Playwright at 1920 × 1080. The complete suit stays within the circle, including collar and trouser hems.
